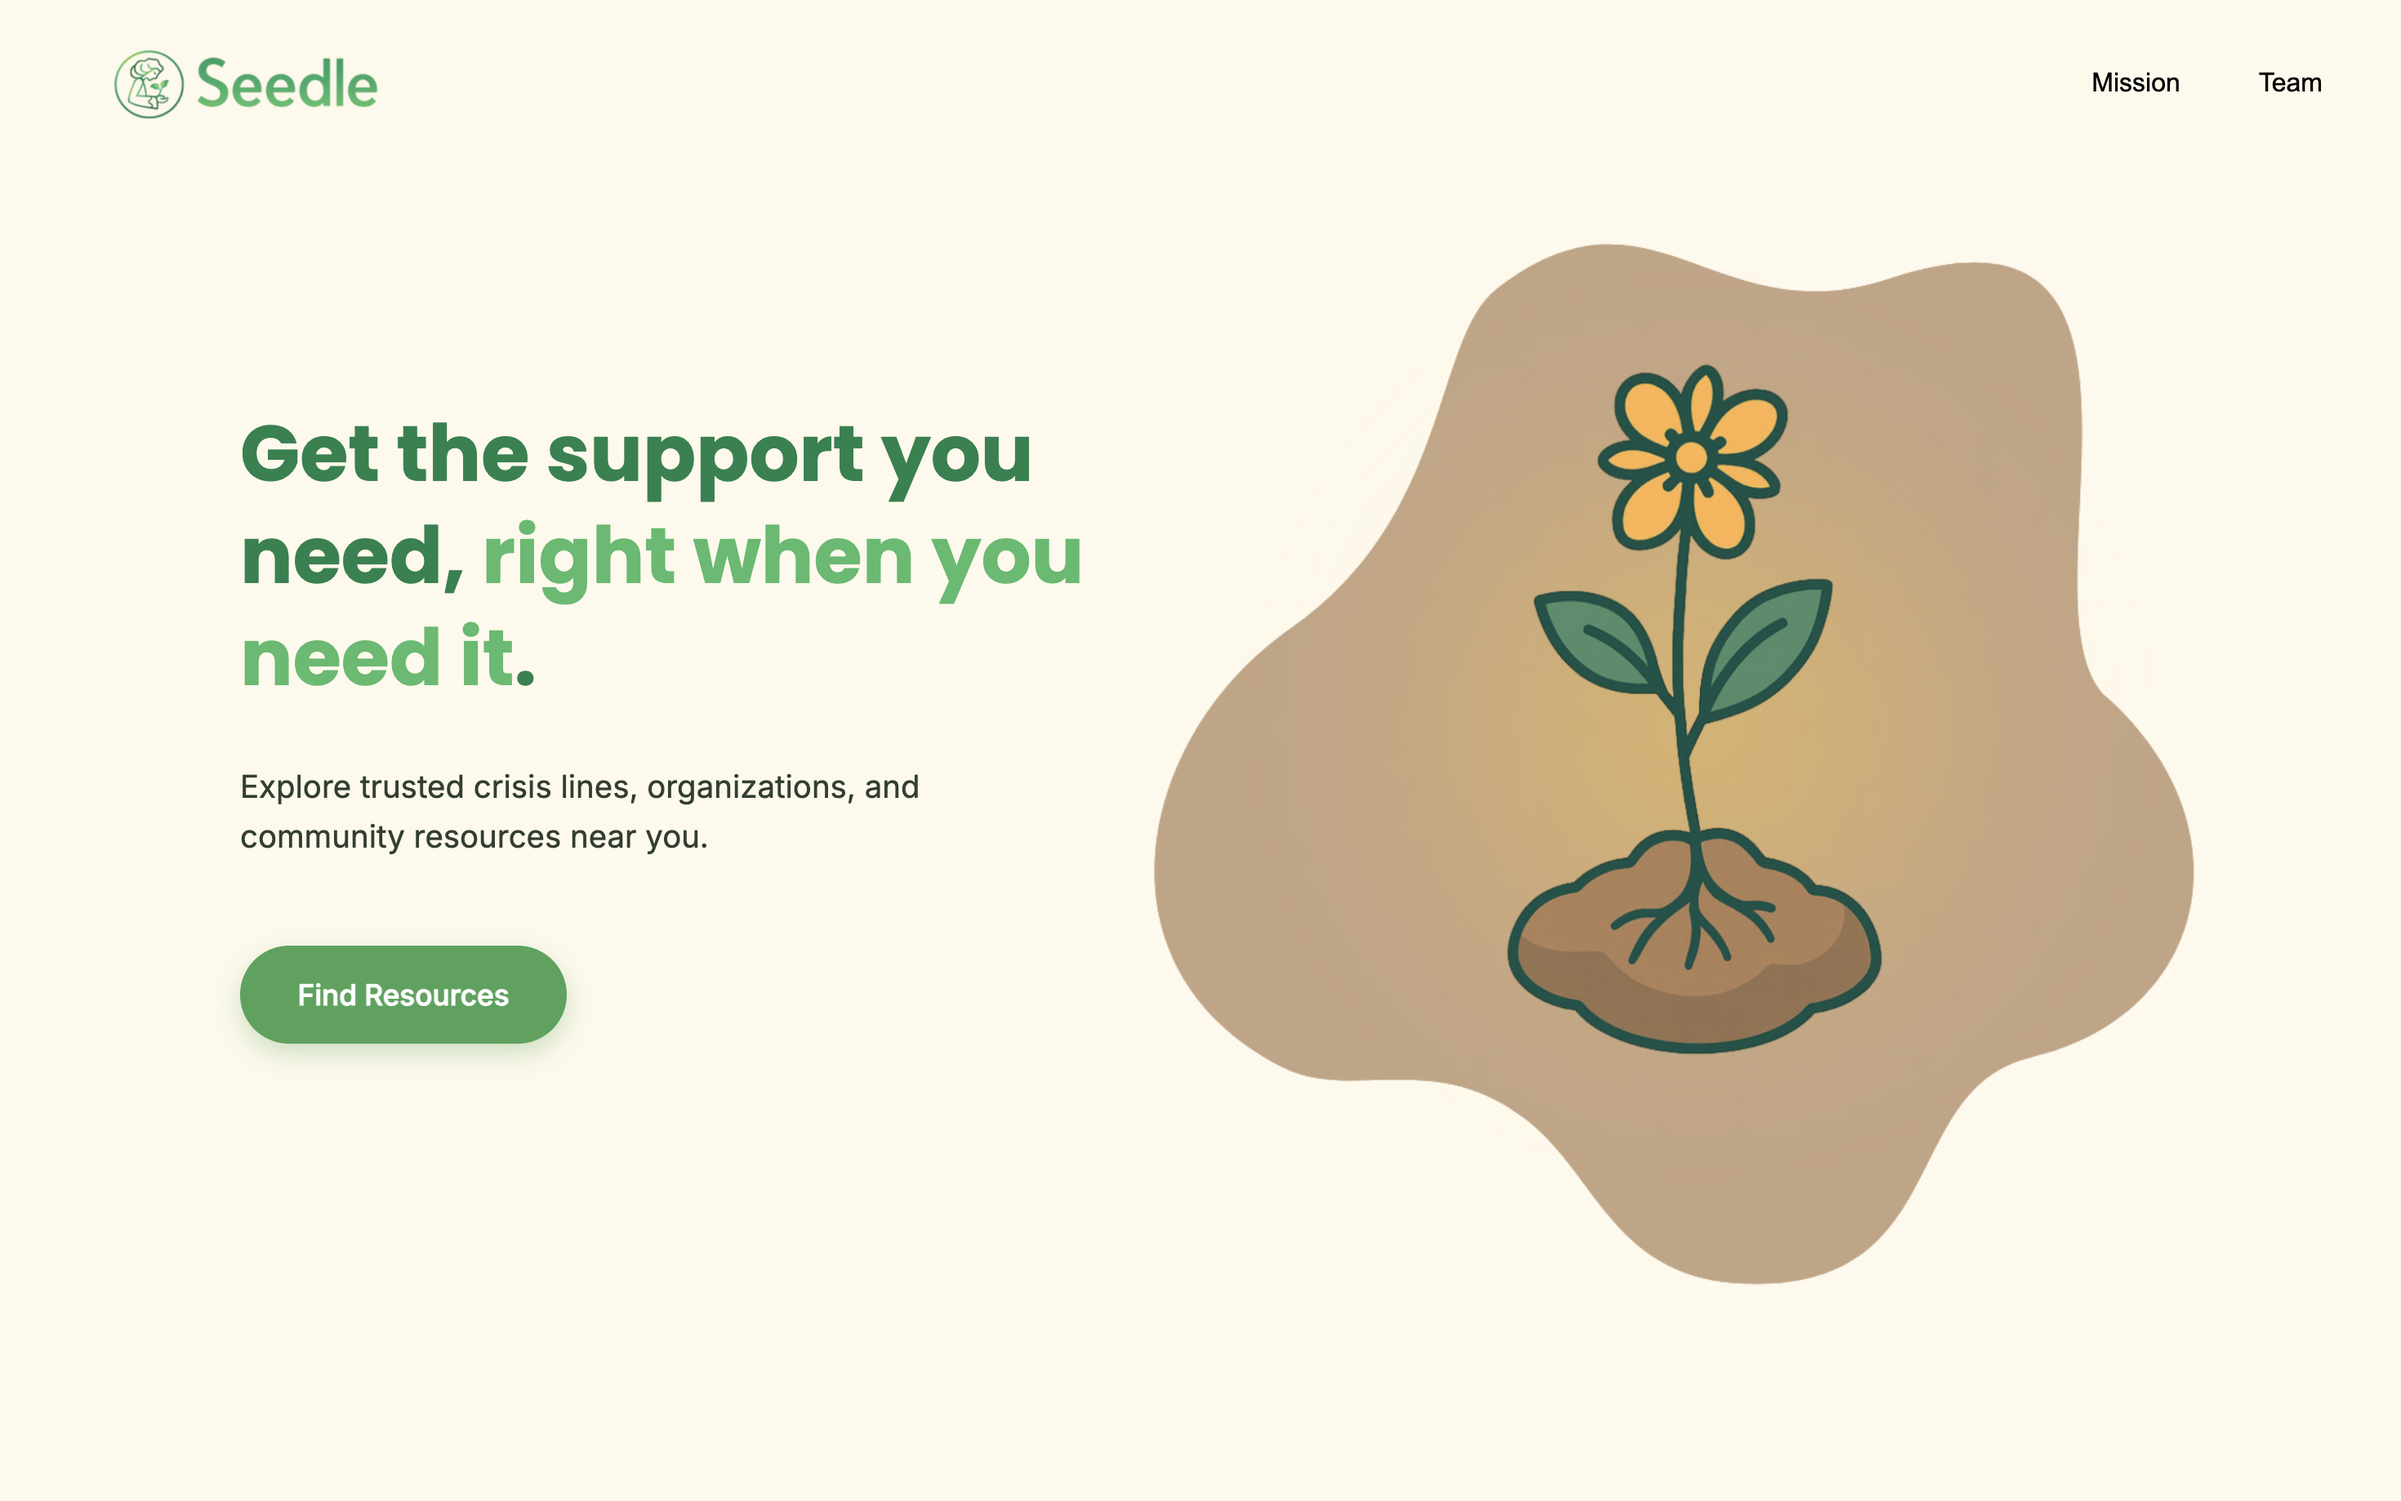
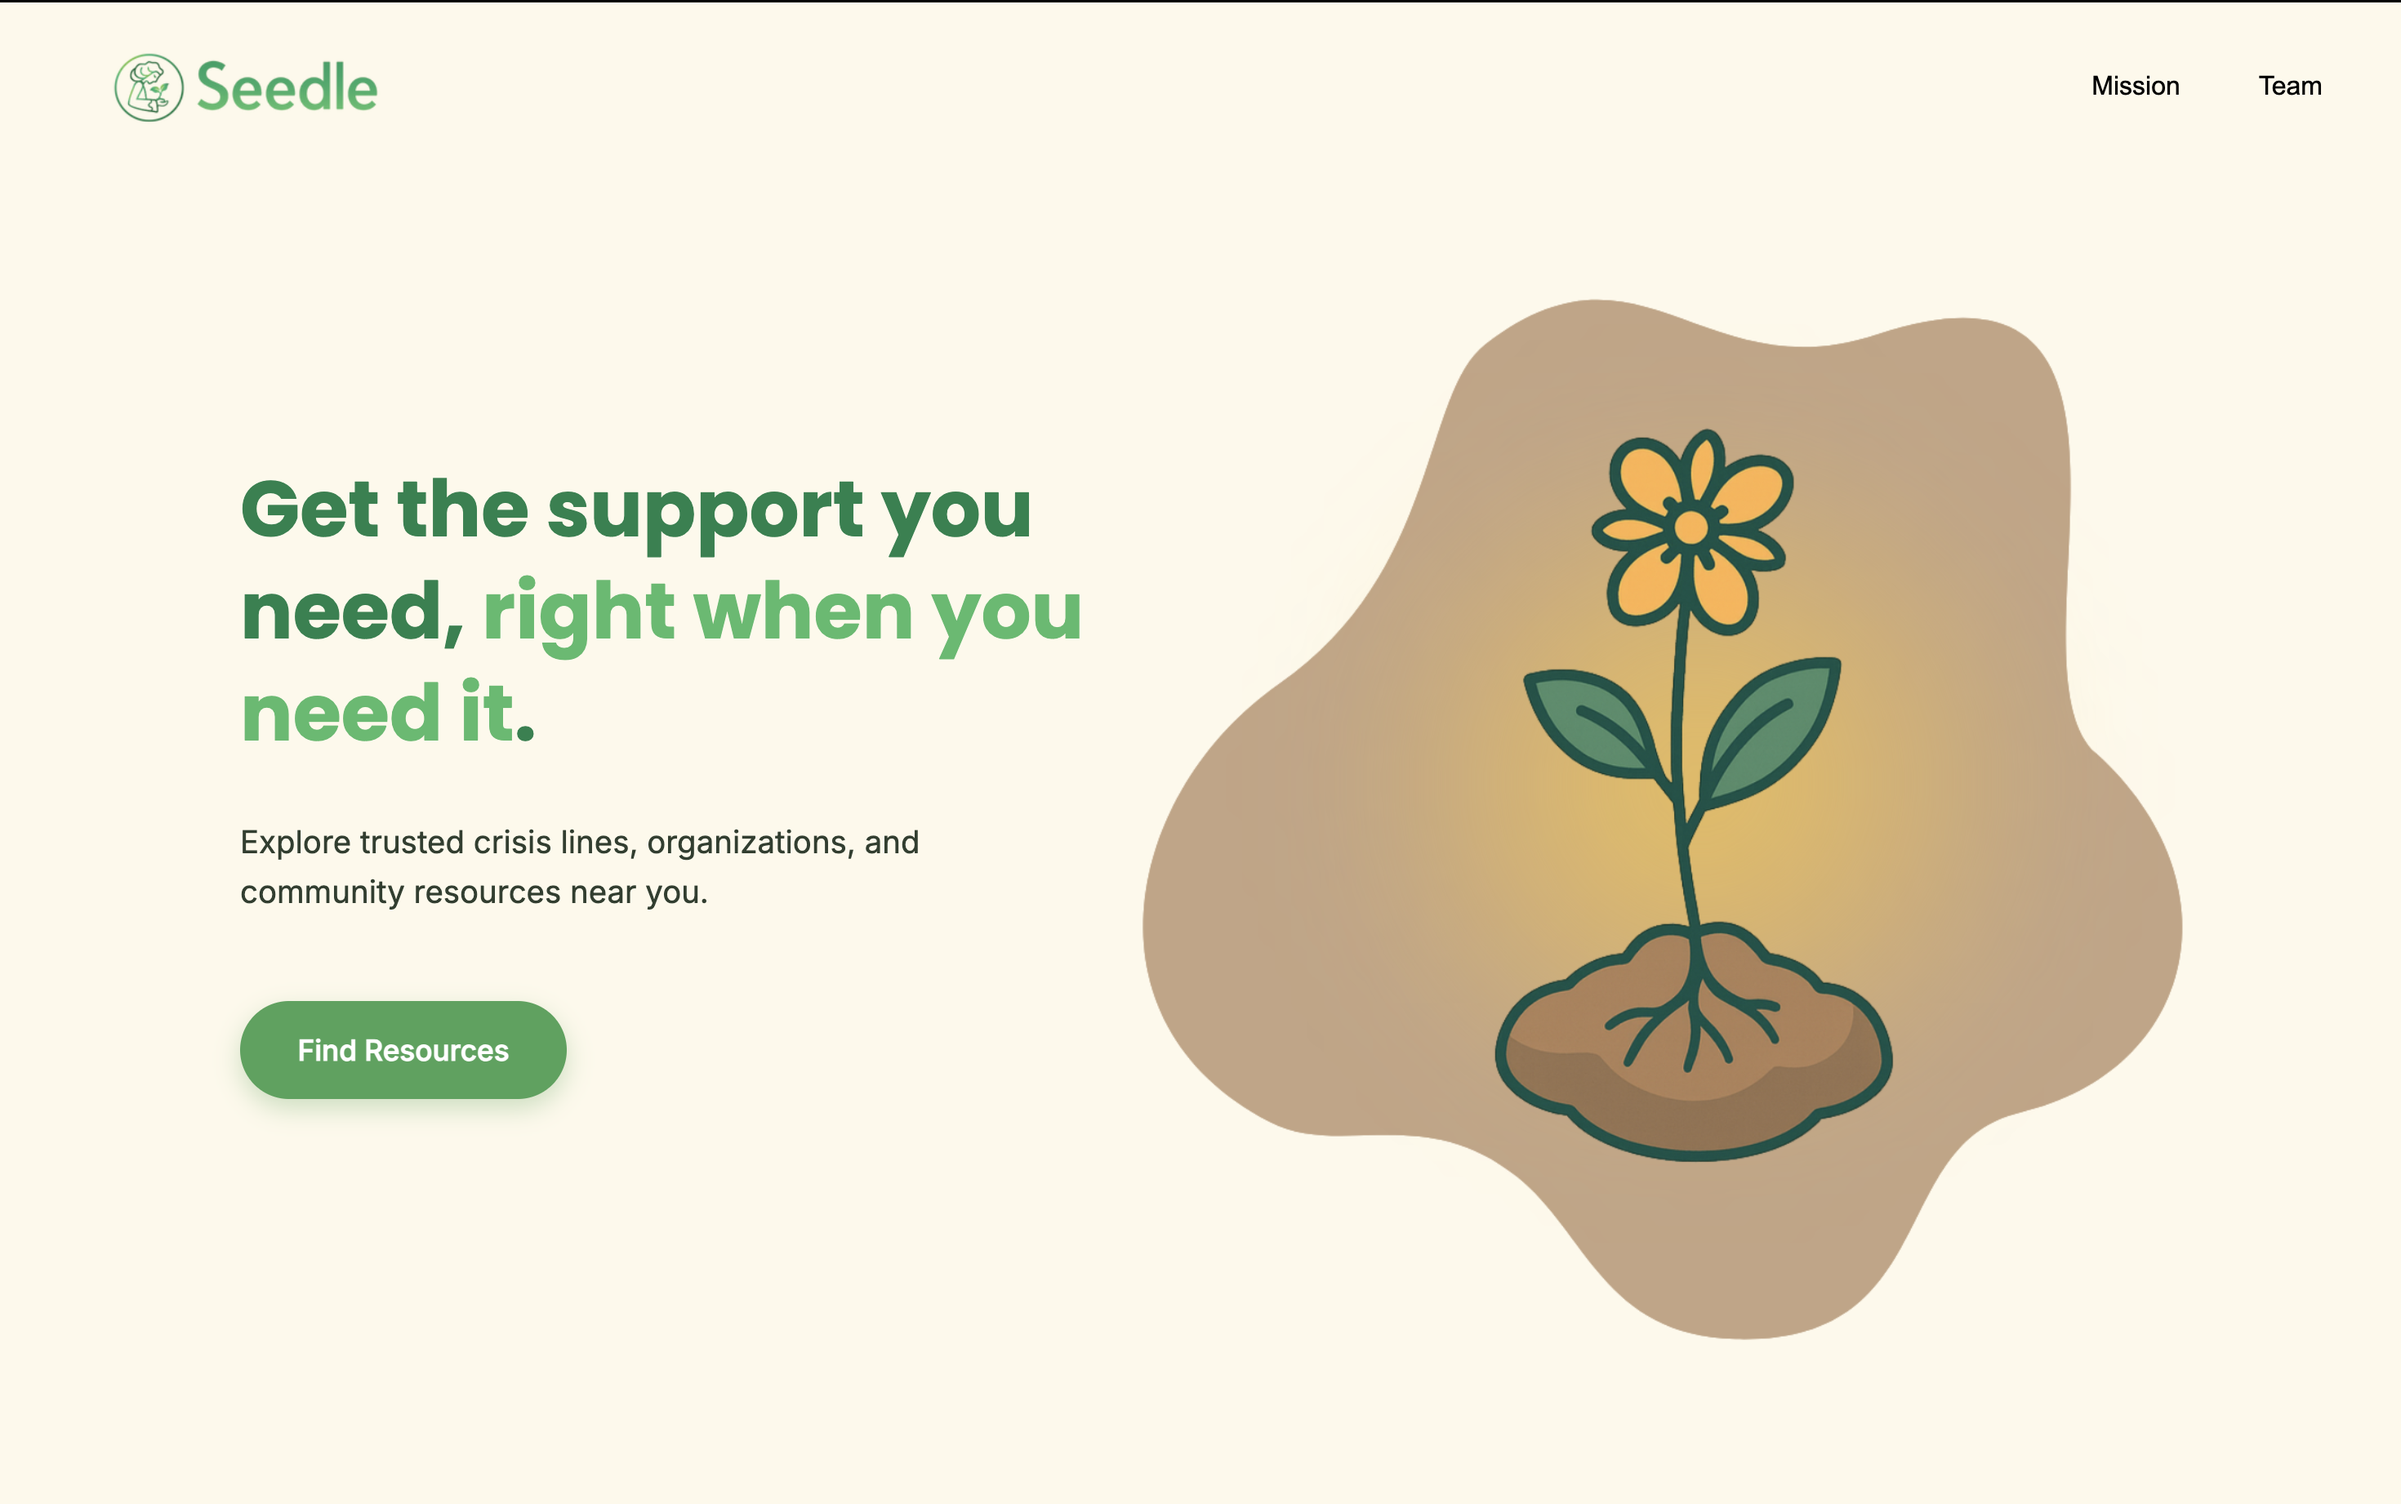
flower animation

diff --git a/index.css b/index.css
@@ -80,12 +80,24 @@
   position: relative;
   max-width: 100%;
   margin-top: -2.75rem;
+}
+
+#seedle-flower.sway {
   animation: floatSway 6s ease-in-out infinite;
+  transform-origin: bottom center;
+}
+
+@keyframes floatSway {
+  0%   { transform: rotate(0deg) translateY(0); }
+  25%  { transform: rotate(-2deg) translateY(-3px); }
+  50%  { transform: rotate(0deg) translateY(0); }
+  75%  { transform: rotate(2deg) translateY(-3px); }
+  100% { transform: rotate(0deg) translateY(0); }
 }
 
 .hero-image img {
   width: 100%;
-  max-width: 31.25rem;
+  max-width: 39rem;
   height: auto;
   position: relative;
   z-index: 1;
@@ -98,7 +110,11 @@
   left: 50%;
   width: 26rem;
   height: 26rem;
-  background: radial-gradient(circle, rgba(255,200,50,0.45) 0%, rgba(255,200,50,0) 75%);
+    background: radial-gradient(
+    circle,
+    rgba(255, 200, 50, 0.72) 0%,
+    rgba(255, 200, 50, 0) 75%
+  );
   border-radius: 50%;
   transform: translate(-50%, -50%);
   z-index: 0;
@@ -108,8 +124,8 @@
 
 .hero-blob {
   position: absolute;
-  top: 54%;
-  left: 81%;
+  top: 52.5%;
+  left: 80.5%;
   transform: translate(-70%, -50%);
   width: 100%;
   max-width: 46.875rem;
@@ -272,10 +288,6 @@
   50% { transform: translateY(0) rotate(0deg); }
   75% { transform: translateY(-0.5rem) rotate(-2deg); }
 }
-
-
-
-
 
 @media (orientation: portrait) {
   .hero-blob {

diff --git a/index.js b/index.js
@@ -19,6 +19,32 @@ const observer = new IntersectionObserver((entries) => {
   });
 }, { threshold: 0.3 });
 
-document.querySelectorAll('.step, .benefit').forEach(el => {
-  observer.observe(el);
+document.addEventListener("DOMContentLoaded", () => {
+  const flower = document.getElementById("seedle-flower");
+
+  const frames = [
+    "assets/flower1.png",
+    "assets/flower2.png",
+    "assets/flower3.png",
+    "assets/flower4.png"
+  ];
+
+  let i = 0;
+
+  function animateSeed() {
+    if (i < frames.length) {
+      flower.src = frames[i];
+      if (i === frames.length - 1) {
+        setTimeout(() => {
+          flower.classList.add("sway");
+        }, 1000);
+      } else {
+        setTimeout(animateSeed, 1000); 
+      }
+
+      i++;
+    }
+  }
+
+  animateSeed();
 });

diff --git a/index.html b/index.html
@@ -33,7 +33,7 @@
       <img src="assets/leafBackground.png" alt="Decorative blob">
     </div>
     <div class="hero-image">
-      <img src="assets/flower.png" alt="Leaf illustration">
+      <img id="seedle-flower" src="assets/flower1.png" alt="Seed to flower animation">
     </div>
   </main>
 
